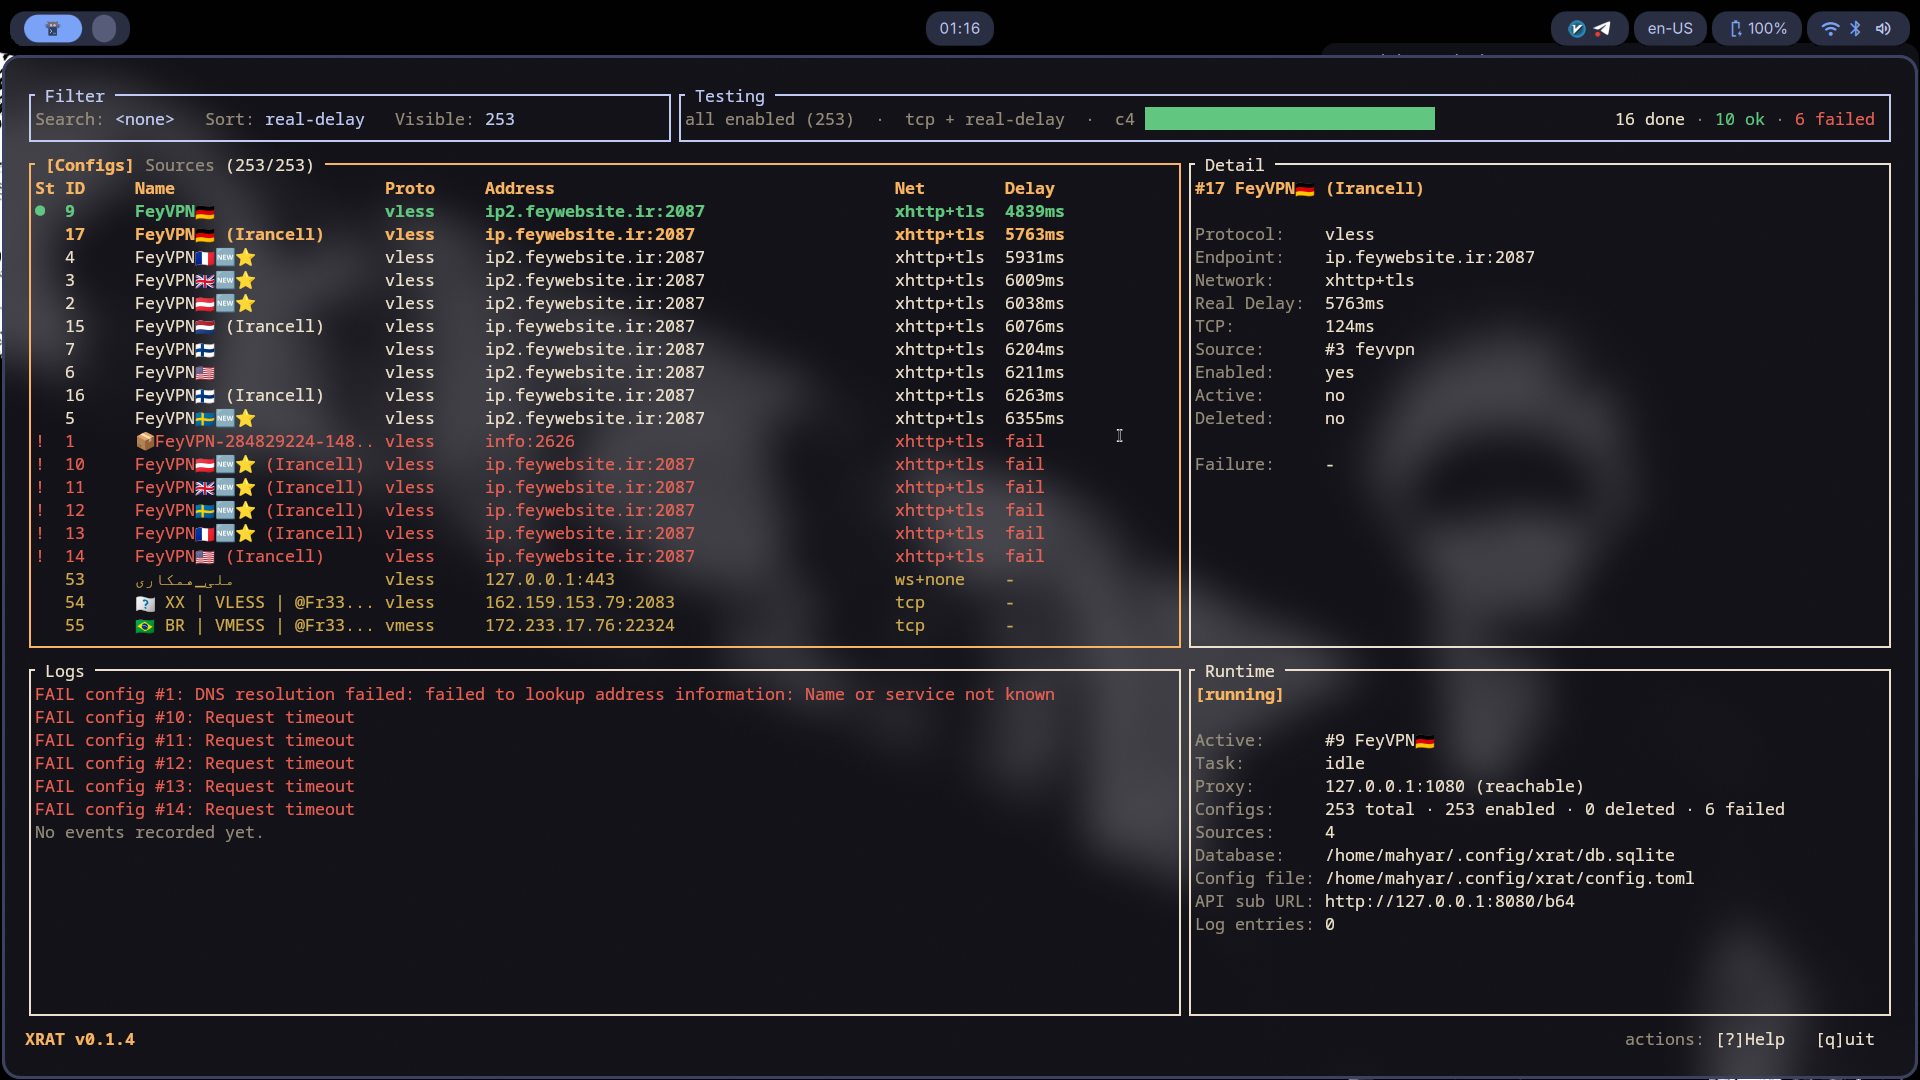
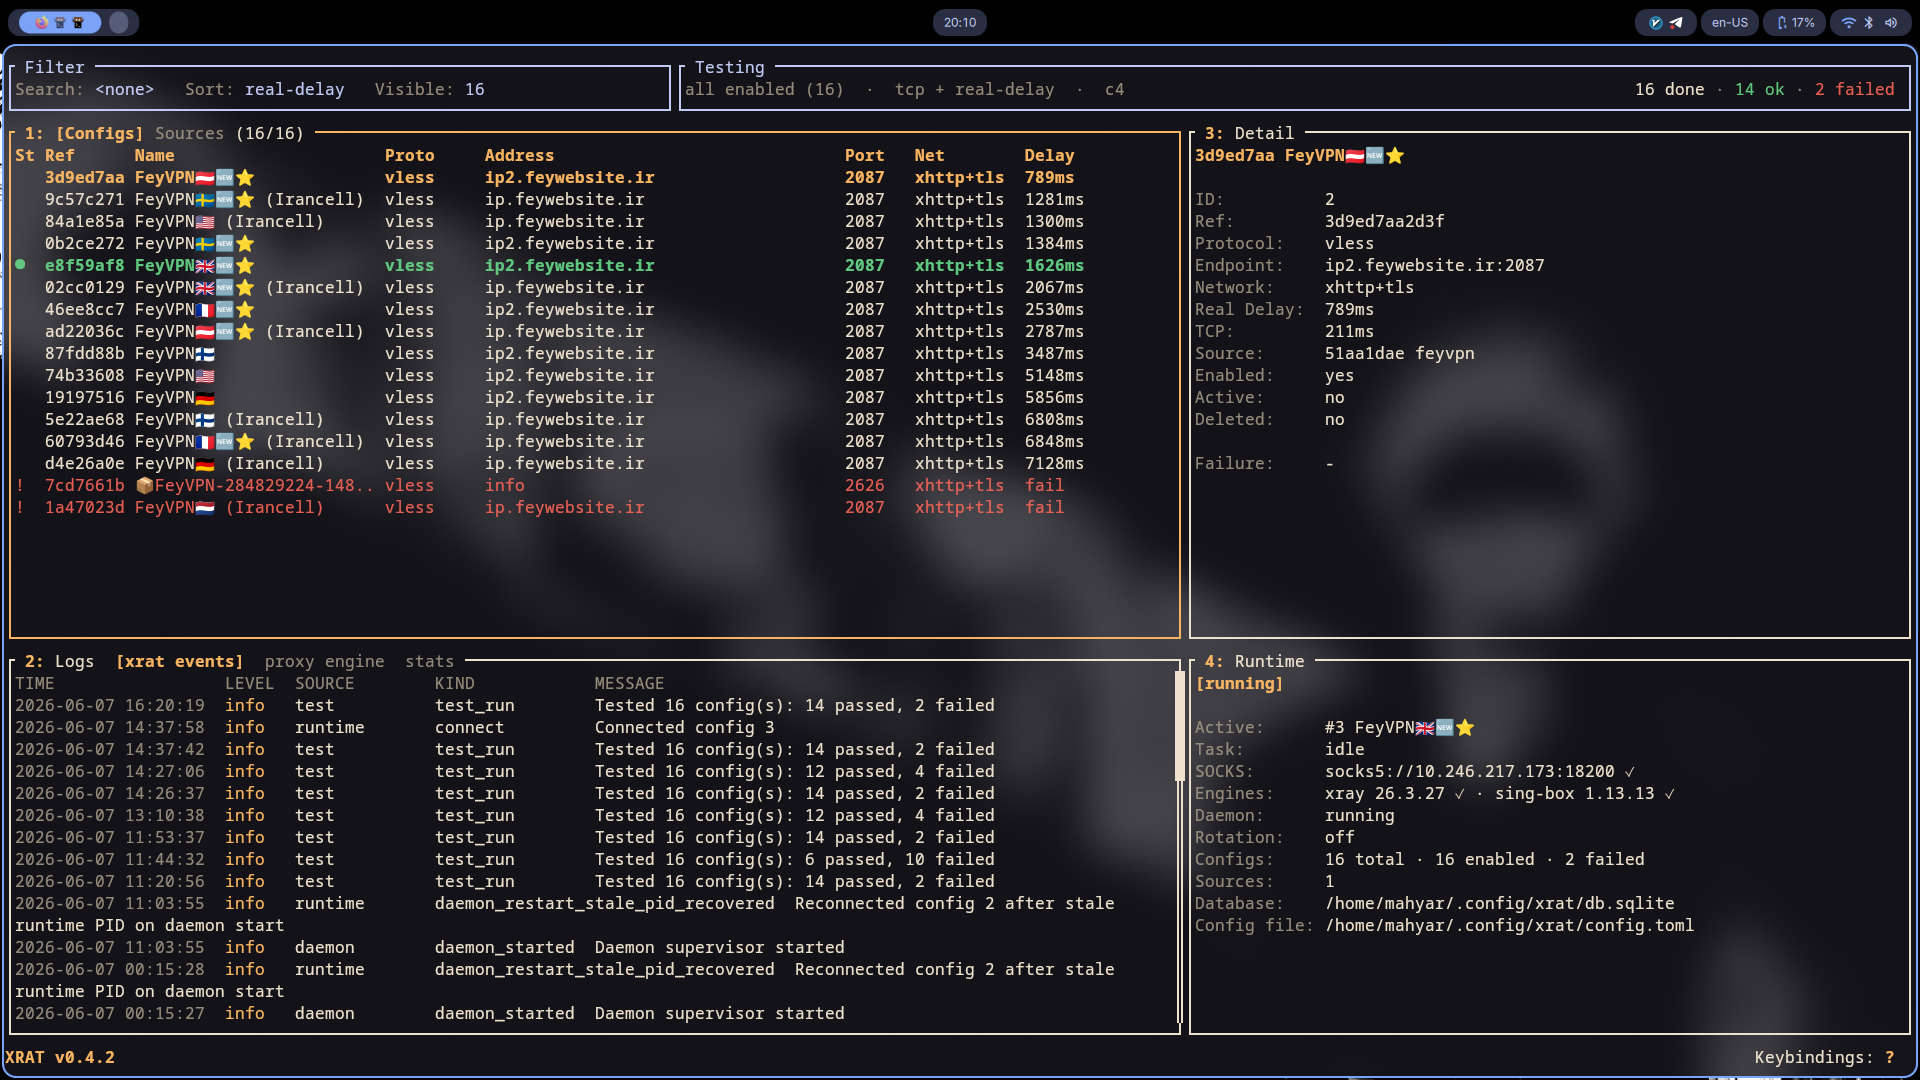
docs: updated screenshot

Changed region(s): [[0.0, 0.0, 1.0, 1.0], [0.9062, 0.7333, 0.9375, 0.7639], [0.5938, 0.9167, 0.625, 0.9472]]

diff --git a/BACKLOG.md b/BACKLOG.md
@@ -341,5 +341,11 @@ must not gate mutations.
 - `?key=` stays only for read-only, non-critical endpoints. Management endpoints
   require header tokens with scopes, constant-time comparison, and
   localhost-only binding by default.
+-----
 
-====Unstructured Todos================
+## Drafts
+
+read the Dockerfile do you thing it's a good idea to include and install xray and sing-box in this Dockerfile so user would not necessary need to install it
+another thing
+in some situtation users would deploy such apps in PaaS problem with iranian paas is that you can not attach config.toml for example what if instead we could define config.toml as b64
+encoded string that it would be decoded later
